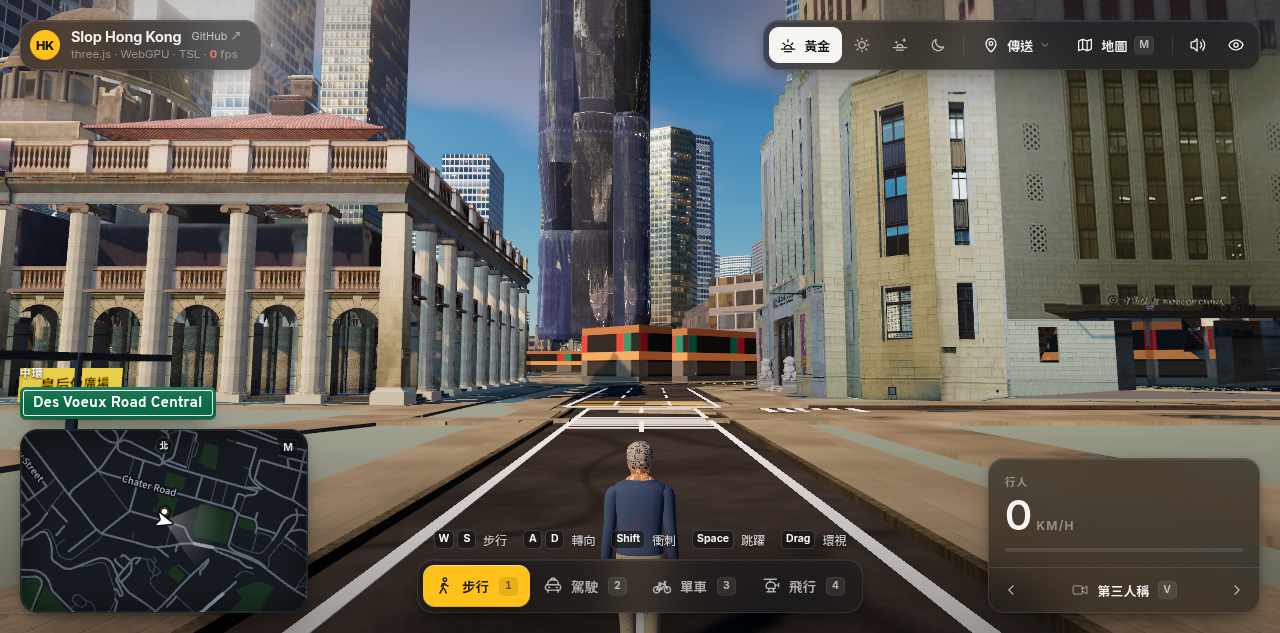
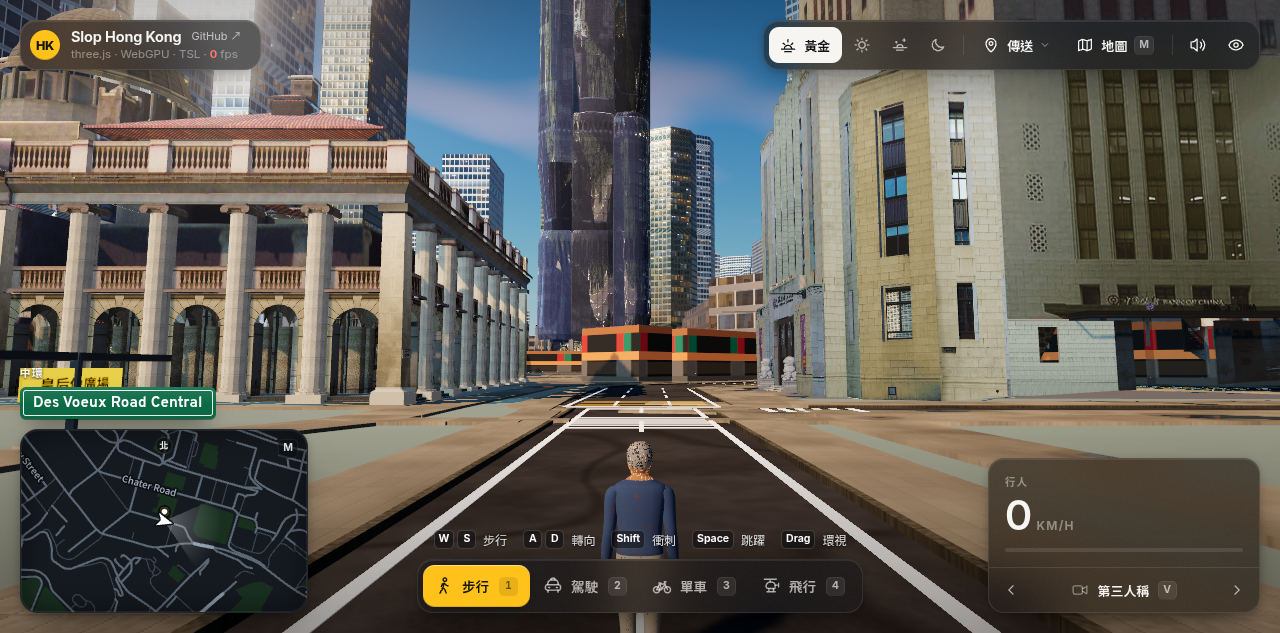
Drop Digit1 look glass on loaded LandsD triangles past the box cap (#18)
Load priority was not the lever. Already-loaded chase triangles past 260 m box cap now omit look curtain (look glass ~476m→340m). Cap-200, shopfront, 80m disc, lot test unchanged.

diff --git a/js/hk-gltf-frame.js b/js/hk-gltf-frame.js
@@ -342,6 +342,133 @@ export function landsdNullFillTriangles(index, sampleVertex, sampleCentroid) {
   return { index: kept, dropped };
 }
 
+const COMPS = { SCALAR: 1, VEC2: 2, VEC3: 3, VEC4: 4 };
+
+function componentBytes(type) {
+  if (type === 5120 || type === 5121) return 1;
+  if (type === 5122 || type === 5123) return 2;
+  if (type === 5125 || type === 5126) return 4;
+  return 0;
+}
+
+function readComponent(view, offset, type) {
+  switch (type) {
+    case 5120: return view.getInt8(offset);
+    case 5121: return view.getUint8(offset);
+    case 5122: return view.getInt16(offset, true);
+    case 5123: return view.getUint16(offset, true);
+    case 5125: return view.getUint32(offset, true);
+    case 5126: return view.getFloat32(offset, true);
+    default: {
+      const unknown = type;
+      throw new Error(`gltf component ${unknown}`);
+    }
+  }
+}
+
+function readAccessor(doc, index, buffers) {
+  const acc = doc.accessors[index];
+  const view = doc.bufferViews[acc.bufferView];
+  const buf = buffers[view.buffer];
+  const bytes = componentBytes(acc.componentType);
+  if (!buf || !bytes) throw new Error('gltf accessor buffer');
+  const data = new DataView(buf.buffer, buf.byteOffset, buf.byteLength);
+  const comps = COMPS[acc.type];
+  if (!comps) throw new Error(`gltf accessor ${acc.type}`);
+  const start = (view.byteOffset || 0) + (acc.byteOffset || 0);
+  const stride = view.byteStride || comps * bytes;
+  const out = new Float64Array(acc.count * comps);
+  for (let i = 0; i < acc.count; i++) {
+    const base = start + i * stride;
+    for (let c = 0; c < comps; c++) out[i * comps + c] = readComponent(data, base + c * bytes, acc.componentType);
+  }
+  return out;
+}
+
+// World triangles for one LandsD building, sidewalk-snapped the same way the
+// mounted mesh is. Used to test look rays past the box cap, where a hollow
+// shell's bounds are not a facade. Returns null when the file has no positions.
+export function bakeGltfWorldTriangles(doc, buffers, sidewalk = ISLAND_BOUNDS.sidewalkHeight) {
+  if (!doc) return null;
+  const nodes = doc.nodes || [];
+  const worlds = new Array(nodes.length);
+  function worldOf(index, parent) {
+    if (worlds[index]) return worlds[index];
+    const node = nodes[index] || {};
+    const m = parent ? mulMat4(parent, localMatrix(node)) : localMatrix(node).slice();
+    worlds[index] = m;
+    for (const child of node.children || []) worldOf(child, m);
+    return m;
+  }
+  const scene = (doc.scenes || [])[doc.scene || 0] || { nodes: [] };
+  for (const index of scene.nodes || []) worldOf(index, null);
+  const parts = [];
+  let minH = Infinity;
+  nodes.forEach((node, index) => {
+    if (node.mesh == null) return;
+    const mesh = (doc.meshes || [])[node.mesh];
+    const m = worlds[index] || localMatrix(node);
+    for (const prim of mesh?.primitives || []) {
+      if (prim.attributes?.POSITION == null) continue;
+      const pos = readAccessor(doc, prim.attributes.POSITION, buffers);
+      const count = pos.length / 3;
+      const placed = new Float64Array(pos.length);
+      for (let i = 0; i < count; i++) {
+        const p = applyMat4(m, pos[i * 3], pos[i * 3 + 1], pos[i * 3 + 2]);
+        const [x, , z] = hk80ToWorld(p[0], -p[2], p[1]);
+        placed[i * 3] = x;
+        placed[i * 3 + 1] = p[1];
+        placed[i * 3 + 2] = z;
+        if (p[1] < minH) minH = p[1];
+      }
+      let indexData;
+      if (prim.indices != null) indexData = readAccessor(doc, prim.indices, buffers);
+      else {
+        indexData = new Float64Array(count);
+        for (let i = 0; i < count; i++) indexData[i] = i;
+      }
+      parts.push({ placed, indexData });
+    }
+  });
+  if (!parts.length || !Number.isFinite(minH)) return null;
+  const shift = sidewalk - minH;
+  const floats = [];
+  let minX = Infinity;
+  let maxX = -Infinity;
+  let minY = Infinity;
+  let maxY = -Infinity;
+  let minZ = Infinity;
+  let maxZ = -Infinity;
+  for (const part of parts) {
+    const { placed, indexData } = part;
+    for (let i = 1; i < placed.length; i += 3) placed[i] += shift;
+    for (let t = 0; t + 2 < indexData.length; t += 3) {
+      for (const id of [indexData[t], indexData[t + 1], indexData[t + 2]]) {
+        const x = placed[id * 3];
+        const y = placed[id * 3 + 1];
+        const z = placed[id * 3 + 2];
+        floats.push(x, y, z);
+        if (x < minX) minX = x;
+        if (x > maxX) maxX = x;
+        if (y < minY) minY = y;
+        if (y > maxY) maxY = y;
+        if (z < minZ) minZ = z;
+        if (z > maxZ) maxZ = z;
+      }
+    }
+  }
+  if (floats.length < 9) return null;
+  return {
+    minX,
+    maxX,
+    minY,
+    maxY,
+    minZ,
+    maxZ,
+    triangles: Float32Array.from(floats)
+  };
+}
+
 export function gltfAlbedoSampler(entry, eye = HK_STREET_EYE, near = HK_GLTF_TEX_NEAR) {
   const maxEdge = gltfTextureMaxEdge(entry, eye, near);
   if (maxEdge === 0) return { maxEdge: 0, mipmaps: false, anisotropy: 1, minFilter: 'linear' };

diff --git a/js/hk-ground-fill.js b/js/hk-ground-fill.js
@@ -406,6 +406,54 @@ function glassPointHitsMesh(origin, dir, boxes, beyond, reach) {
   return false;
 }
 
+// Front face only. A LandsD shell's box can contain the ray with no triangle
+// on it; this is the hit the box test is not allowed to invent.
+function rayTriangle(origin, dir, ax, ay, az, bx, by, bz, cx, cy, cz) {
+  const e1x = bx - ax;
+  const e1y = by - ay;
+  const e1z = bz - az;
+  const e2x = cx - ax;
+  const e2y = cy - ay;
+  const e2z = cz - az;
+  const px = dir.y * e2z - dir.z * e2y;
+  const py = dir.z * e2x - dir.x * e2z;
+  const pz = dir.x * e2y - dir.y * e2x;
+  const det = e1x * px + e1y * py + e1z * pz;
+  if (det <= 1e-12) return null;
+  const inv = 1 / det;
+  const sx = origin.x - ax;
+  const sy = origin.y - ay;
+  const sz = origin.z - az;
+  const u = (sx * px + sy * py + sz * pz) * inv;
+  if (u < 0 || u > 1) return null;
+  const qx = sy * e1z - sz * e1y;
+  const qy = sz * e1x - sx * e1z;
+  const qz = sx * e1y - sy * e1x;
+  const v = (dir.x * qx + dir.y * qy + dir.z * qz) * inv;
+  if (v < 0 || u + v > 1) return null;
+  const t = (e2x * qx + e2y * qy + e2z * qz) * inv;
+  return t > 0.2 ? t : null;
+}
+
+function glassPointHitsSolid(origin, dir, solids, beyond, reach) {
+  for (const solid of solids) {
+    if (!solid?.triangles || solid.triangles.length < 9) continue;
+    const boxT = rayAabb(origin, dir, solid);
+    if (boxT == null || boxT > reach) continue;
+    const src = solid.triangles;
+    for (let i = 0; i + 8 < src.length; i += 9) {
+      const t = rayTriangle(
+        origin, dir,
+        src[i], src[i + 1], src[i + 2],
+        src[i + 3], src[i + 4], src[i + 5],
+        src[i + 6], src[i + 7], src[i + 8]
+      );
+      if (t != null && t > beyond && t <= reach) return true;
+    }
+  }
+  return false;
+}
+
 // Closest point of a tall box to the ribbon's outer face. The box counts when
 // that point lies on the lot side (not across the carriageway) and within
 // `behind` metres. A facade beside the outward normal still counts: the camera
@@ -438,6 +486,8 @@ function tallMeshBehindCell(x, z, wall, boxes, behind) {
 // above it does not. From the Des Voeux chase, a glass sample is omitted when
 // a loaded mesh is the facade that curtain stands in for:
 // - the look ray meets a mesh beyond the ribbon and within `cover`, or
+// - the same ray meets a triangle of a loaded chase mesh past `cover` and
+//   within the corridor reach (a hollow shell's box is not that hit), or
 // - a mesh that rises through the belt sits on the lot side of the cell,
 //   within `behind` metres of the outer face (the ray can miss that box).
 // A sample outside the look corridor, a short kiosk, or a far courtyard keeps
@@ -460,10 +510,15 @@ export function canyonGlassWalls(walls, meshes, {
   behind = 36,
   // The mesh has to occupy the curtain band. A rise that stops in the
   // shopfront is the kiosk case and does not delete the glass above it.
-  tall = 1
+  tall = 1,
+  // Triangles of loaded meshes whose boxes start past `cover`. The box test
+  // stops at 260 m so a hollow courtyard shell cannot delete the curtain.
+  // A real triangle further down the same ray still can, out to the corridor.
+  solids = null
 } = {}) {
   const list = (meshes || []).map((mesh) => meshRiseBox(mesh, sidewalk)).filter(Boolean);
-  if (!eye || !list.length) return (walls || []).slice();
+  const solidList = (solids || []).filter((solid) => solid?.triangles?.length >= 9);
+  if (!eye || (!list.length && !solidList.length)) return (walls || []).slice();
   const tallBoxes = list.filter((box) => box.maxY > belt + tall);
   const look = chaseLook(eye);
   const out = [];
@@ -491,7 +546,8 @@ export function canyonGlassWalls(walls, meshes, {
       const dz = z - look.origin.z;
       const dist = Math.hypot(dx, dy, dz) || 1;
       const dir = { x: dx / dist, y: dy / dist, z: dz / dist };
-      const ray = glassPointHitsMesh(look.origin, dir, list, dist + 2, cover);
+      const ray = glassPointHitsMesh(look.origin, dir, list, dist + 2, cover)
+        || glassPointHitsSolid(look.origin, dir, solidList, dist + 2, reach);
       const lot = tallMeshBehindCell(x, z, wall, tallBoxes, behind);
       drop.push(ray || lot);
     }

diff --git a/js/hk-gltf.js b/js/hk-gltf.js
@@ -1,9 +1,12 @@
 import * as THREE from 'three/webgpu';
 import { GLTFLoader } from 'three/addons/loaders/GLTFLoader.js';
-import { BLOCKS, HK_GLTF_CAP, HK_GLTF_SHEET, HK_GLTF_SHEETS, ISLAND_BOUNDS } from './city-config.js';
+import { BLOCKS, HK_GLTF_CAP, HK_GLTF_SHEET, HK_GLTF_SHEETS, HK_STREET_EYE, ISLAND_BOUNDS } from './city-config.js';
 import {
+  bakeGltfWorldTriangles,
+  boxClosestDistance,
   formatGltfLog,
   gltfAlbedoSampler,
+  gltfInStreetChase,
   hiddenExtrudeIds,
   hk80ToWorld,
   landsdAlbedoRow,
@@ -210,6 +213,41 @@ function sharpenPhoto(material, sampler) {
   }
 }
 
+// Boxes inside this distance can already satisfy the 260 m look-ray test.
+// Farther chase meshes are baked so a real triangle past that cap can drop
+// glass without a hollow shell's box doing it.
+const LOOK_SOLID_PAST = 200;
+
+async function fetchLookSolid(entry) {
+  const res = await fetch(entry.url);
+  if (!res.ok) throw new Error(String(res.status));
+  const doc = await res.json();
+  const base = new URL(entry.url, window.location.href);
+  const buffers = [];
+  for (const buffer of doc.buffers || []) {
+    if (!buffer.uri || buffer.uri.startsWith('data:')) throw new Error('embedded buffer');
+    const bufRes = await fetch(new URL(buffer.uri, base));
+    if (!bufRes.ok) throw new Error(String(bufRes.status));
+    buffers.push(new Uint8Array(await bufRes.arrayBuffer()));
+  }
+  return bakeGltfWorldTriangles(doc, buffers);
+}
+
+export async function loadLookSolids(entries, eye = HK_STREET_EYE) {
+  const solids = [];
+  for (const entry of entries || []) {
+    if (!entry?.url || !gltfInStreetChase(entry, eye)) continue;
+    if (boxClosestDistance(entry, eye) <= LOOK_SOLID_PAST) continue;
+    try {
+      const solid = await fetchLookSolid(entry);
+      if (solid) solids.push(solid);
+    } catch (err) {
+      console.warn(`[gltf] look solid ${entry.file || entry.url}: ${err.message || err}`);
+    }
+  }
+  return solids;
+}
+
 async function readSheetManifest(sheet) {
   const manifestUrl = `./hk-3d/${sheet}/manifest.json`;
   const res = await fetch(manifestUrl);
@@ -267,15 +305,22 @@ export async function prepareHkGltfSheet(href) {
     console.info(`[gltf] digit1 probe buildings ${plan.selected.map((entry) => entry.name || entry.file).join(' ')}`);
   }
   const hidden = hiddenExtrudeIds(BLOCKS, plan.selected);
+  const selected = plan.selected.map((entry) => ({
+    ...entry,
+    url: `./hk-3d/${entry.sheet}/${entry.file}`
+  }));
+  const lookSolids = probe ? [] : await loadLookSolids(selected);
+  if (lookSolids.length) {
+    const triangles = lookSolids.reduce((sum, solid) => sum + solid.triangles.length / 9, 0);
+    console.info(`[gltf] look solids ${lookSolids.length} triangles ${triangles}`);
+  }
   return {
     ...plan,
     sheet: loadedSheets.join('+'),
     sheets: loadedSheets,
     hiddenIds: new Set(hidden),
-    selected: plan.selected.map((entry) => ({
-      ...entry,
-      url: `./hk-3d/${entry.sheet}/${entry.file}`
-    }))
+    selected,
+    lookSolids
   };
 }
 

diff --git a/js/city-grid.js b/js/city-grid.js
@@ -244,10 +244,12 @@ function buildHkStreetCanyon(group, gltfPlan = null) {
   });
   wallMat.name = 'hkCanyonGlass';
   const ribbons = walls.map((wall) => ({ x: wall.x, z: wall.z, yaw: wall.yaw, w: wall.depth, len: wall.len }));
-  const glass = gltfMeshes.length ? canyonGlassWalls(walls, gltfMeshes, {
+  const lookSolids = gltfPlan?.lookSolids || [];
+  const glass = gltfMeshes.length || lookSolids.length ? canyonGlassWalls(walls, gltfMeshes, {
     eye: HK_STREET_EYE,
     belt: HK_RETAIL_BELT,
-    sidewalk: ISLAND_BOUNDS.sidewalkHeight
+    sidewalk: ISLAND_BOUNDS.sidewalkHeight,
+    solids: lookSolids
   }) : walls;
   const glassRibbons = glass.map((wall) => ({ x: wall.x, z: wall.z, yaw: wall.yaw, w: wall.depth, len: wall.len }));
   const baseY = 0.16;

diff --git a/docs/HK_GLTF_CUT.md b/docs/HK_GLTF_CUT.md
@@ -50,9 +50,11 @@ That podium is a gap ribbon, not a second draw over a photograph. The hit is abo
 
 The remaining stylized band above that shopfront is `HkCentralStreetWallsGlass` (`hkCanyonGlass`), from y = 8.02 to the 18 m canyon top. It is not a skipped sheet box. All 73 BUILDING meshes on 11-SW-9C leave the curb empty (nearest box `B345851574401063A0` is 6.5 m clear, and it rises only about 4 m). Sheet 11-SW-8D stops west of this cell. Raising the 80 m disc would delete the shopfront and open a hole onto Henderson; the centreline is 81.3 m, and the curb has no mesh to put there. The cap of 200 is not binding on 9C (59 masses of span ≥ 8 m). Specks under 8 m do not meet this slab.
 
-`canyonGlassWalls` drops only that curtain, and only on the Des Voeux look corridor (heading 1.29, 8–500 m along, 72 m to either side). Two tests omit a sample. The chase ray through the glass meets a loaded mesh whose rise is positive and whose entry is past the ribbon and within 260 m. Henderson (`B347491569901063A0`) is that mesh, about 230 m down the ray from the empty curb at 77.2, 49.9. A tall mesh also omits the sample when its closest point is on the lot side of the outer face and within 36 m, even if the ray misses the box. Tall means the mesh rises through the retail belt (top above y = 9). A 4 m kiosk does not. A box across the carriageway does not. A box past 36 m on the lot side does not, and a box past 260 m on the ray does not: a courtyard shell around 360 m can contain the ray and still have no triangle on it. The retail ribbon stays. A wall behind the camera keeps its glass. The 80 m disc is unchanged. Colliders stay the full canyon height.
+`canyonGlassWalls` drops only that curtain, and only on the Des Voeux look corridor (heading 1.29, 8–500 m along, 72 m to either side). Two tests omit a sample. The chase ray through the glass meets a loaded mesh whose rise is positive and whose entry is past the ribbon and within 260 m. Henderson (`B347491569901063A0`) is that mesh, about 230 m down the ray from the empty curb at 77.2, 49.9. A tall mesh also omits the sample when its closest point is on the lot side of the outer face and within 36 m, even if the ray misses the box. Tall means the mesh rises through the retail belt (top above y = 9). A 4 m kiosk does not. A box across the carriageway does not. A box past 36 m on the lot side does not, and a box past 260 m on the ray does not: a courtyard shell around 360 m can contain the ray and still have no triangle on it. A triangle of a loaded chase mesh past that cap still omits the sample, out to the 500 m corridor, because the hit is the facade and not the shell's box. The retail ribbon stays. A wall behind the camera keeps its glass. The 80 m disc is unchanged. Colliders stay the full canyon height.
 
 On the cap-200 set (11-SW-9C and 11-SW-8D), clip still keeps 1893 ribbons. The ray alone left glass on 1889 of them, 1257 m of it inside the look corridor out of 1341 m of look wall. The lot disc leaves glass on 1835 ribbons and 469 m of look-corridor curtain. The Digit1 gap shopfront stays; its curtain was already gone because the ray hits Henderson. Ribbons that lose curtain under the lot disc and not under the ray include the Des Voeux piece at about 84, 64 (17.9 m, in front of `B345831577701063A0`), the Queen’s Road piece at about 77, 91 (29.7 m, `B345471572201063A0` on the lot side), and the Queen’s Road piece at about 132, 127 (27.6 m, `B345831563001063A0`). What replaces the curtain is a hole onto that LandsD mesh where the sheet is loaded, not a second procedural wall. Look cells with no tall mesh within 36 m on the lot side, and no ray hit inside 260 m, keep the curtain. That leftover is the glass still counted above.
+
+Reordering the cap does not load any further look-corridor box. The combined sheets keep 806 masses of span ≥ 8 m. Street-chase priority already selects every one of the 20 chase masses; the 606 skipped by the cap are off the corridor, and mounting all 806 leaves look glass where the cap-200 set left it. The blocker is the 260 m box test. On this boot the sampler counts 475.8 m of look glass and 1835 pieces (the 469 m figure above is the same set). Triangles of chase meshes whose closest point is past 200 m — already loaded, not newly selected — meet 135.9 m of that curtain beyond 260 m. Lippo Centre (`B348641561601063A0`) is 100.7 m of it. The courtyard shell (`B348961562202063A0`) has a real triangle on 31.3 m; its box is still not a hit. `B348401575802063A0` is 4.0 m. Look glass falls to 339.9 m and glass pieces to 1828. Clip stays 1893 ribbons. The Digit1 gap shopfront stays, and its curtain stays omitted by the Henderson box. The same sampler with every skipped mass added, and with no triangles, does not move the 475.8 m.
 
 The same probe after that split: NDC 0, 0 is Henderson photo RGB(20, 23, 31) on `B347491569901063A0_002`. NDC 0, 0.08 is Henderson photo RGB(44, 47, 61) on `B347491569901063A0_001`. Both were the curtain. NDC 0, −0.08 stays the shopfront RGB(91, 24, 22). NDC 0, 0.22 and 0, 0.36 stay RGB(29, 33, 49) and RGB(46, 49, 62). No sample on the grid is pale.
 
@@ -84,7 +86,7 @@ Street proof is the person chase at eye height. A helicopter or flyover frame is
 index.html?at=-1.4,29.3,1.29
 ```
 
-Person mode, x = −1.4, z = 29.3, heading 1.29 rad. The 8D mesh around that point is textured LandsD geometry at the file resolution. Procedural glass, canyon ribbons, and footprint extrudes inside 80 m of that eye are not drawn when a LandsD mesh is inside the disc. Farther along the look, canyon glass is omitted where the chase ray meets a loaded mesh within 260 m, and where a mesh that rises through the retail belt sits within 36 m on the lot side of the cell. The shopfront under that glass stays when the curb itself is empty. Further along the look, 9C towers (The Henderson, Fairmont House, Lippo Centre) use the same single-mip photograph. Triangles whose corners or face centre sample LandsD null fill are omitted, so The Henderson’s street height is a chart from that mesh, or a hole where the file had no chart. A sidewalk ribbon whose body reaches one of those meshes is not drawn. 皇后像廣場, the OSM `highway=bus_stop` with `shelter=yes` on the north pavement, is about 14 m from this eye. Its roof and the Chinese plate are sized for that distance. The Bank of China Tower, about 230 m east-south of this eye, has no BUILDING glTF on the loaded sheets. The chase draws the footprint prism with a matte glass face and the opaque shopfront skirt.
+Person mode, x = −1.4, z = 29.3, heading 1.29 rad. The 8D mesh around that point is textured LandsD geometry at the file resolution. Procedural glass, canyon ribbons, and footprint extrudes inside 80 m of that eye are not drawn when a LandsD mesh is inside the disc. Farther along the look, canyon glass is omitted where the chase ray meets a loaded mesh within 260 m, where a triangle of a loaded chase mesh lies on that ray out to 500 m, and where a mesh that rises through the retail belt sits within 36 m on the lot side of the cell. The shopfront under that glass stays when the curb itself is empty. Further along the look, 9C towers (The Henderson, Fairmont House, Lippo Centre) use the same single-mip photograph. Triangles whose corners or face centre sample LandsD null fill are omitted, so The Henderson’s street height is a chart from that mesh, or a hole where the file had no chart. A sidewalk ribbon whose body reaches one of those meshes is not drawn. 皇后像廣場, the OSM `highway=bus_stop` with `shelter=yes` on the north pavement, is about 14 m from this eye. Its roof and the Chinese plate are sized for that distance. The Bank of China Tower, about 230 m east-south of this eye, has no BUILDING glTF on the loaded sheets. The chase draws the footprint prism with a matte glass face and the opaque shopfront skirt.
 
 ## Placement
 
@@ -102,4 +104,4 @@ glTF node matrices are column-major, Y-up after the node: X = HK1980 easting, Y 
 - Null-fill faces with no photograph behind them are holes. That is the file, not a replacement building.
 - Some street-height charts are real muddy photographs (browns and olives with texel variance). Dropping the constant fill does not repaint those.
 - This cut does not claim the chase is Sleeping Dogs. The Digit1 probe rejects the padding-slab premise; MSI is a separate gate.
-- Look-corridor glass is omitted from the Des Voeux eye, the same way the 80 m disc is. Turning around, those ribbons have no upper curtain. The ray still drops two edge ribbons about 37–39 m off the look because a tall box contains it. The lot disc also drops curtain beside a tower the ray misses, including the Des Voeux ribbon near 84, 64 and the Queen’s Road ribbon near 77, 91. Cells with no tall mesh on the lot side inside 36 m, and no ray hit inside 260 m, keep the curtain. The empty curb’s shopfront stays.
+- Look-corridor glass is omitted from the Des Voeux eye, the same way the 80 m disc is. Turning around, those ribbons have no upper curtain. The ray still drops two edge ribbons about 37–39 m off the look because a tall box contains it. The lot disc also drops curtain beside a tower the ray misses, including the Des Voeux ribbon near 84, 64 and the Queen’s Road ribbon near 77, 91. Cells with no tall mesh on the lot side inside 36 m, no box hit inside 260 m, and no triangle of a loaded chase mesh out to 500 m, keep the curtain. That is the 339.9 m still measured on the cap-200 set. The empty curb’s shopfront stays.
